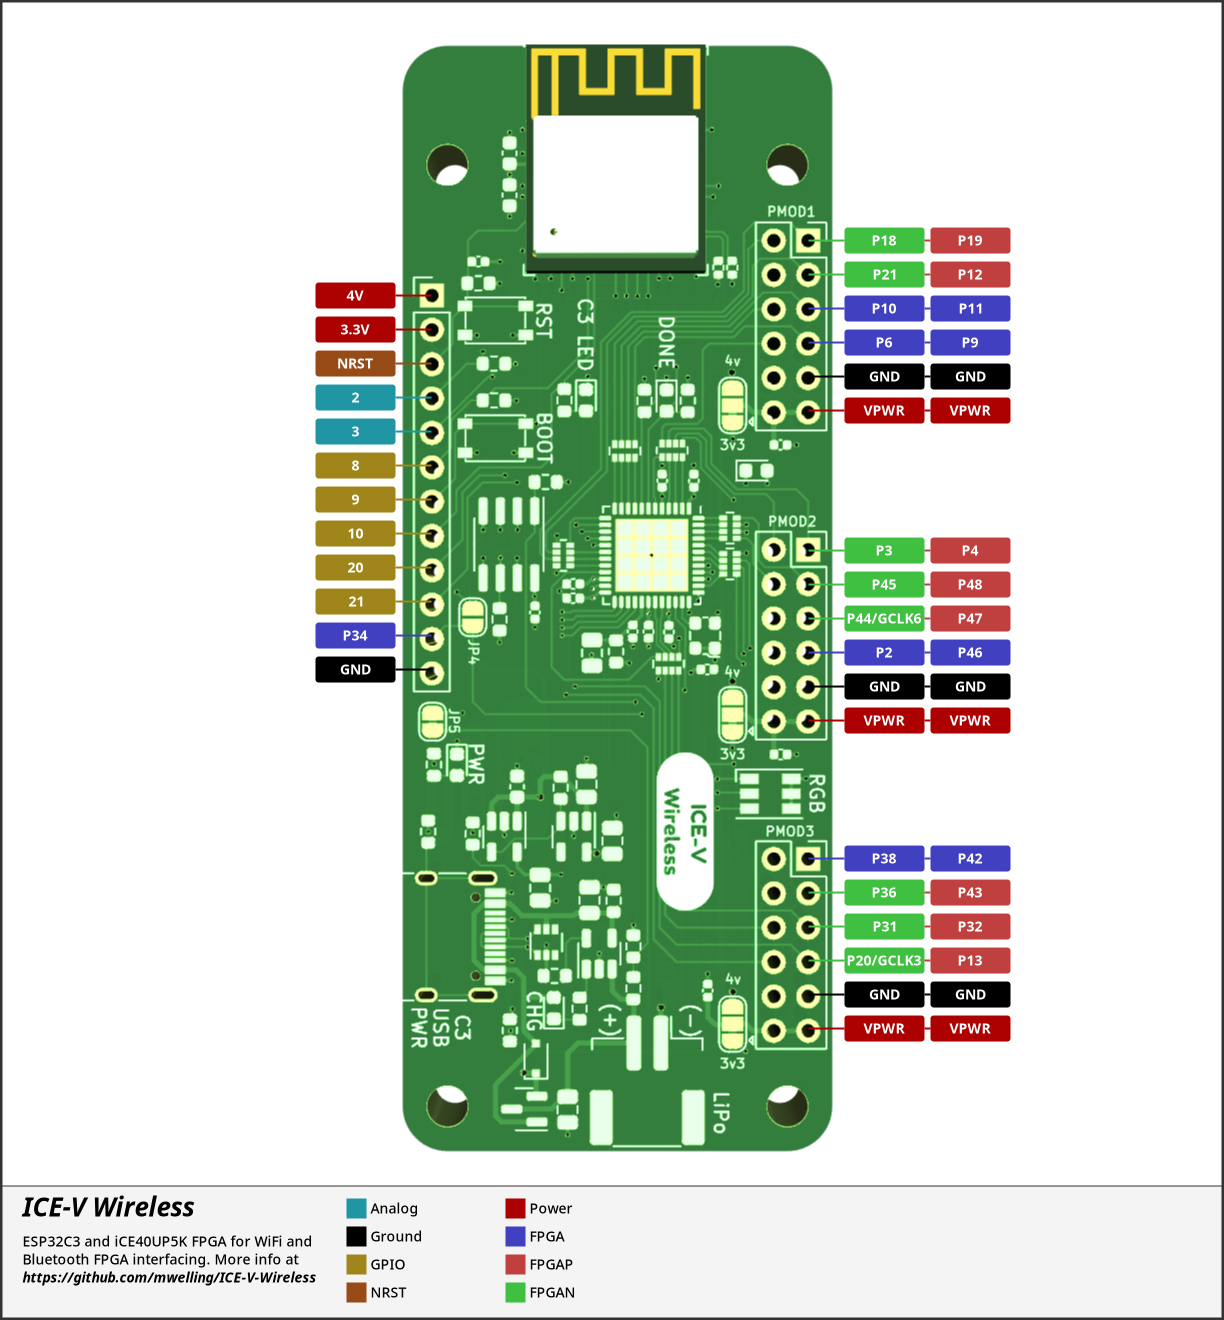
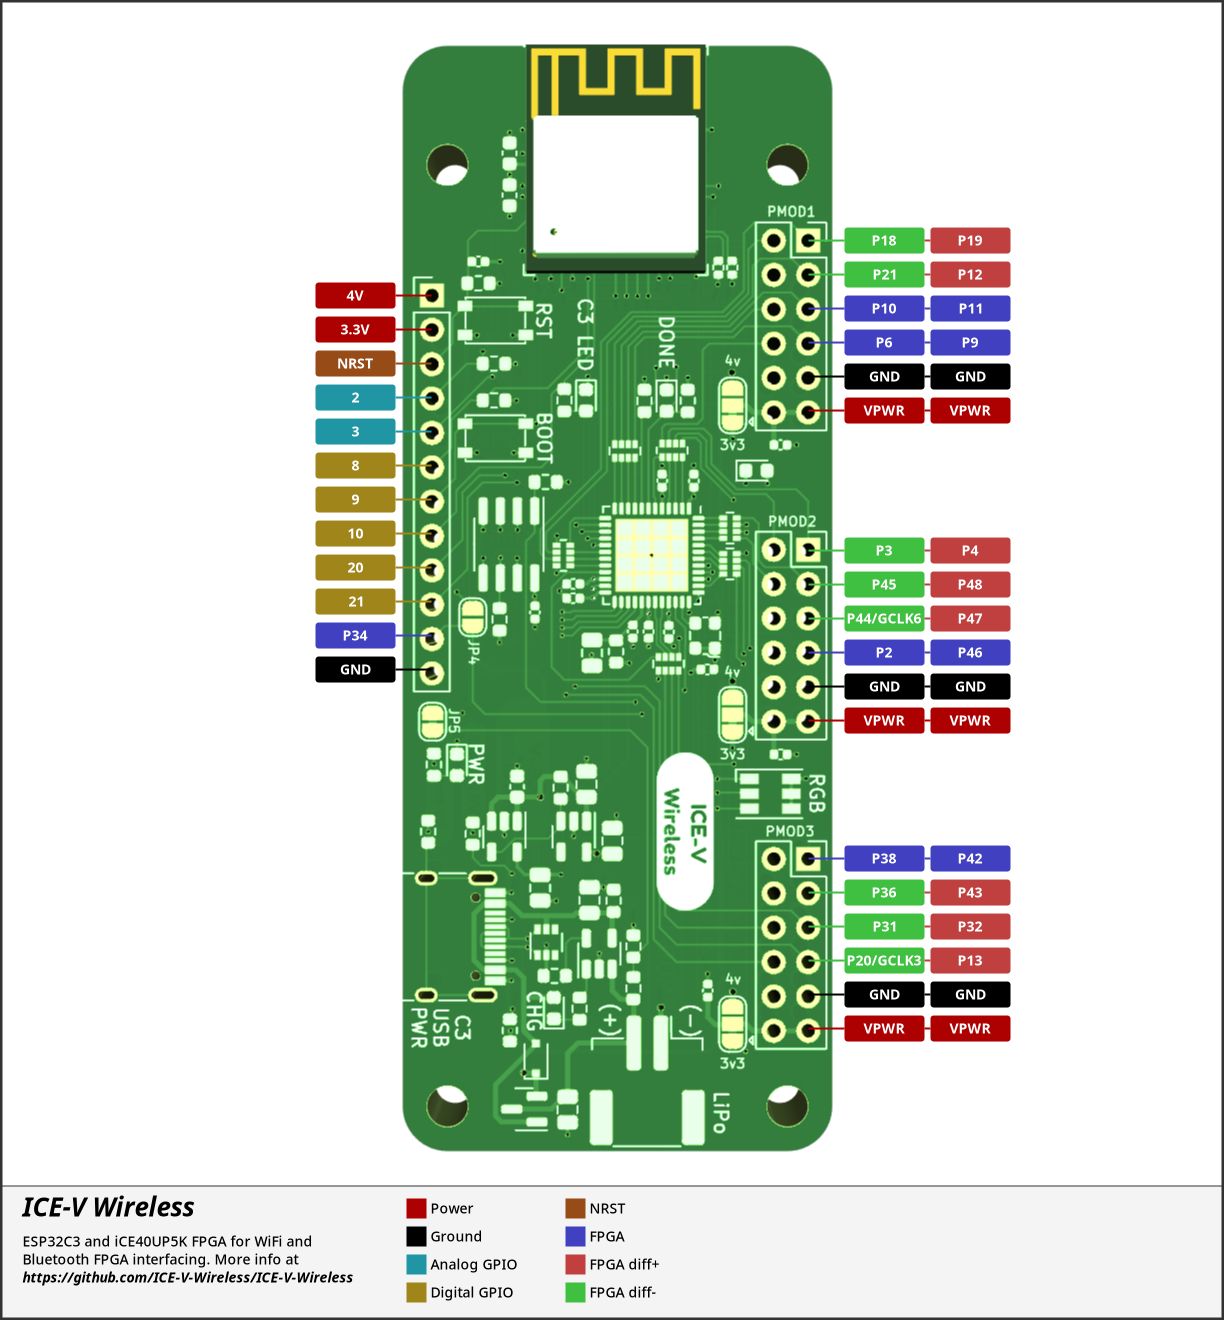
Update pinout diagram

Changed region(s): [[0.1242, 0.9008, 0.5278, 0.9939]]

diff --git a/pinout/data.py b/pinout/data.py
@@ -1,12 +1,12 @@
 legend = [
-    ("Analog", "analog"),
-    ("Ground", "gnd"),
-    ("GPIO", "gpio"),
-    ("NRST", "nrst"),
     ("Power", "pwr"),
+    ("Ground", "gnd"),
+    ("Analog GPIO", "analog"),
+    ("Digital GPIO", "gpio"),
+    ("NRST", "nrst"),
     ("FPGA", "fpga"),
-    ("FPGAP", "fpgap"),
-    ("FPGAN", "fpgan"),
+    ("FPGA diff+", "fpgap"),
+    ("FPGA diff-", "fpgan"),
 ]
 
 # Pinlabels
@@ -137,4 +137,4 @@ title = "<tspan class='h1'>ICE-V Wireless</tspan>"
 
 description = """ESP32C3 and iCE40UP5K FPGA for WiFi and 
 Bluetooth FPGA interfacing. More info at 
-<tspan class='italic strong'>https://github.com/mwelling/ICE-V-Wireless</tspan>"""
+<tspan class='italic strong'>https://github.com/ICE-V-Wireless/ICE-V-Wireless</tspan>"""

diff --git a/pinout/pinout_diagram.py b/pinout/pinout_diagram.py
@@ -112,7 +112,7 @@ diagram.panel_02.add(
 legend = diagram.panel_02.add(
     Legend(
         data.legend,
-        x=340,
+        x=400,
         y=8,
         max_height=132,
     )
